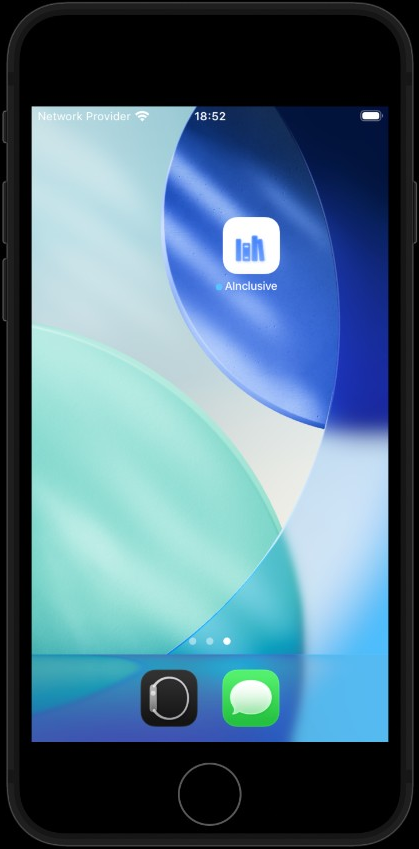
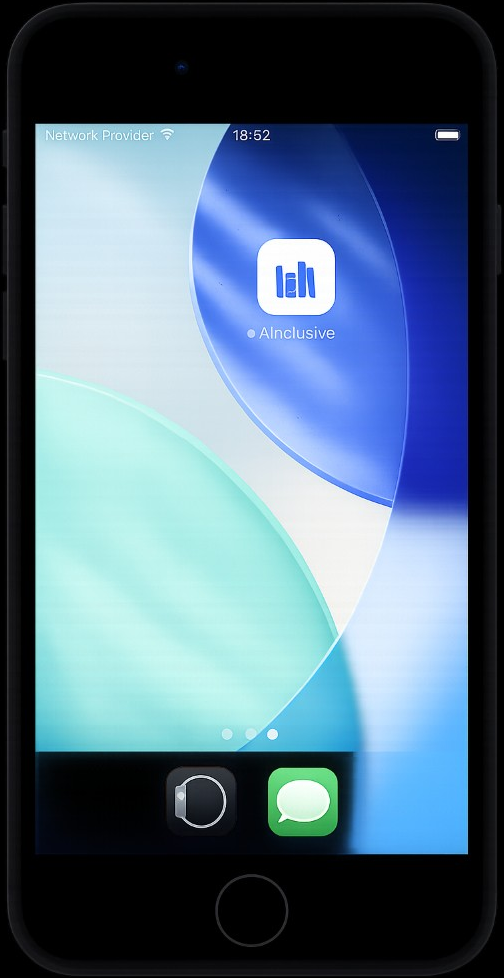
Replace AInclusive home-screen with new framed mockup.

diff --git a/app/ainclusive/LandingClient.tsx b/app/ainclusive/LandingClient.tsx
@@ -88,8 +88,8 @@ export default function AInclusiveLandingClient() {
                   <Image
                     src={shot.src}
                     alt={shot.alt}
-                    width={shot.hasDeviceFrame ? 419 : 575}
-                    height={shot.hasDeviceFrame ? 849 : 1024}
+                    width={shot.hasDeviceFrame ? 504 : 575}
+                    height={shot.hasDeviceFrame ? 978 : 1024}
                     className={styles.museumScreenshot}
                   />
                 </div>
